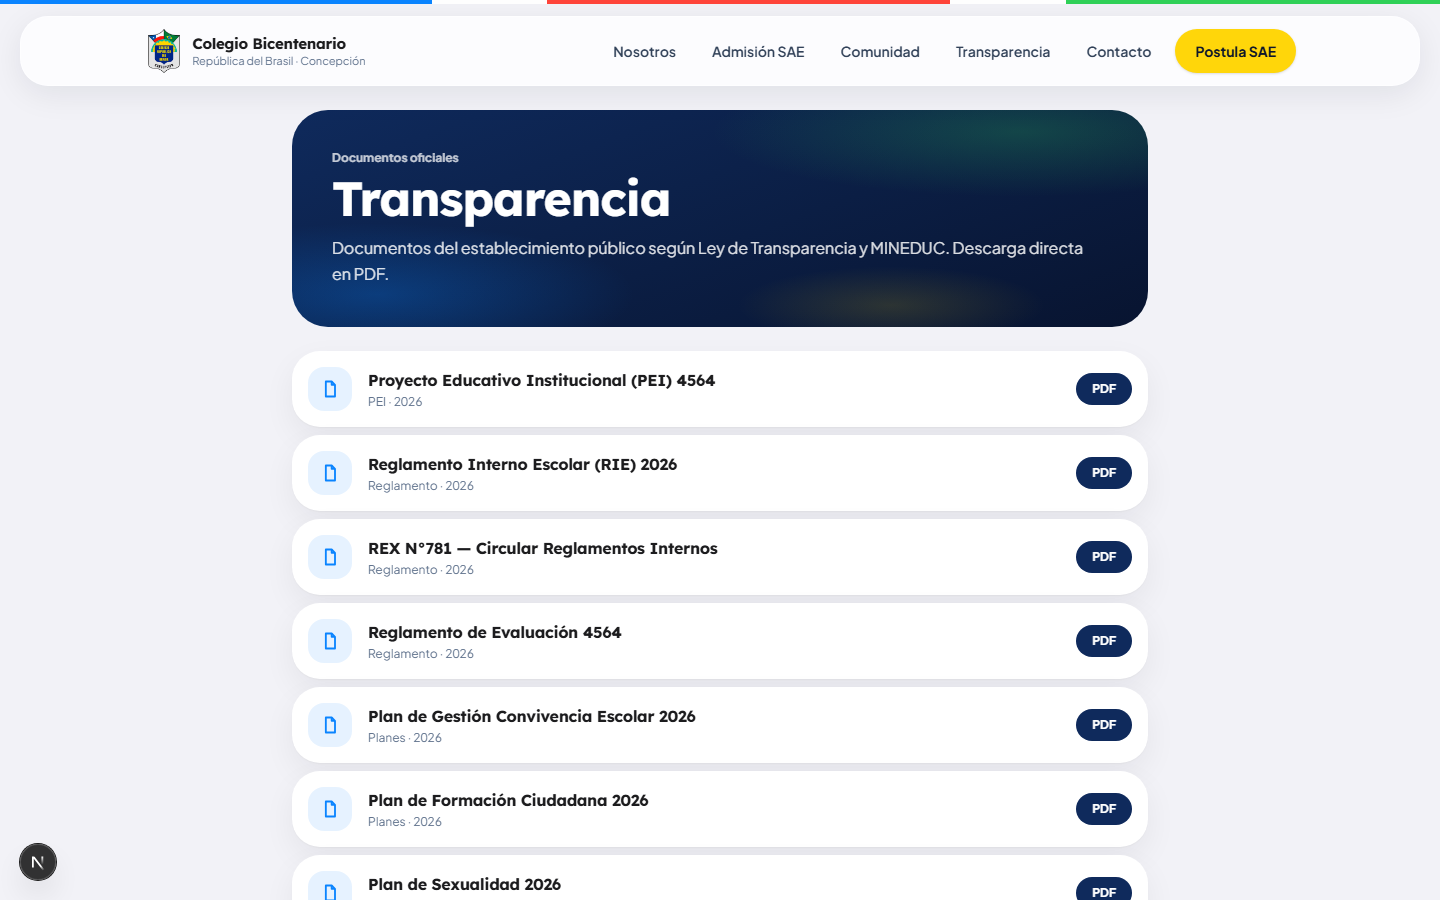
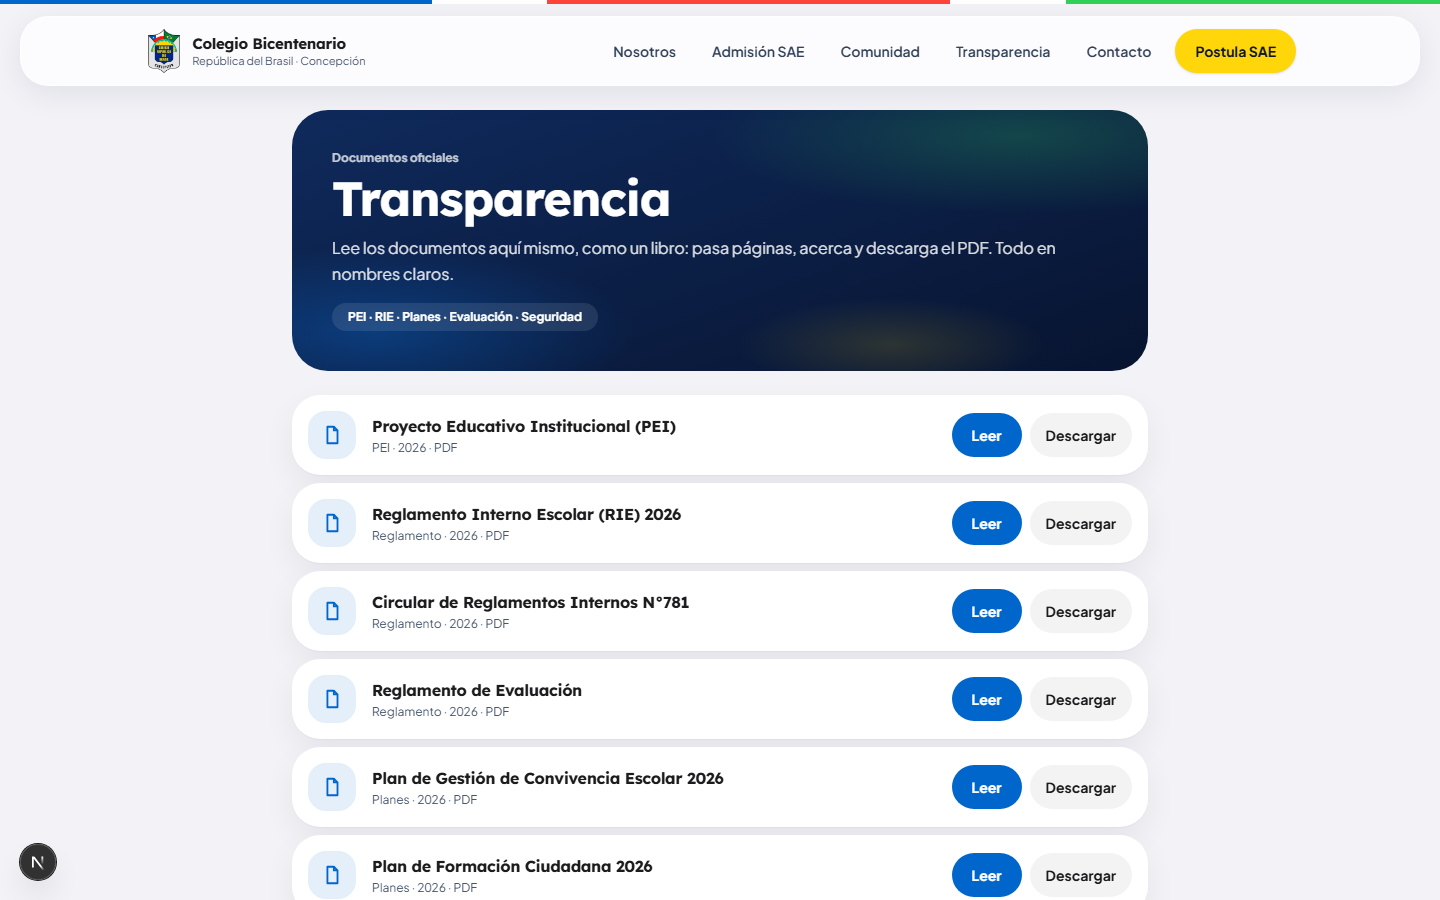
a11y: contraste AA - azul 0066cc, verde con texto oscuro, cards con borde visible, muted slate-600

Changed region(s): [[0.1875, 0.3111, 0.8125, 1.0], [0.2188, 0.2489, 0.75, 0.3111], [0.0, 0.0, 0.2812, 0.0311]]

diff --git a/src/app/page.tsx b/src/app/page.tsx
@@ -11,8 +11,8 @@ const NIVELES = [
 ];
 
 const PILARES = [
-  { tag: "1843", title: "183 años de historia", text: "Escuela N°2 de Concepción. Un colegio bicentenario que sigue formando generaciones.", tone: "bg-[#0a84ff]" },
-  { tag: "Público", title: "Laico y gratuito", text: "Educación pública de calidad, sin pago, abierta a todas las familias.", tone: "bg-[#30d158]" },
+  { tag: "1843", title: "183 años de historia", text: "Escuela N°2 de Concepción. Un colegio bicentenario que sigue formando generaciones.", tone: "bg-[#0066cc]" },
+  { tag: "Público", title: "Laico y gratuito", text: "Educación pública de calidad, sin pago, abierta a todas las familias.", tone: "bg-[#30d158] text-[#052e16]" },
   { tag: "SLEP", title: "Andalién Sur", text: "Parte del Servicio Local de Educación Pública de Concepción, Chiguayante, Florida y Hualqui.", tone: "bg-[#ffd60a]" },
   { tag: "RBD 4564", title: "Comunidad activa", text: "1.342 estudiantes, 132 docentes. Convivencia, deportes, artes y talleres en San Martín 1580.", tone: "bg-[#ff453a]" },
 ];
@@ -66,8 +66,8 @@ export default function Home() {
               <img src="/logos/slep-andalien-sur.png" alt="Servicio Local de Educación Pública Andalién Sur" width={240} height={130} className="mx-auto mt-4 h-16 w-auto" />
               <p className="mt-4 text-center text-sm font-semibold">Escuela N°2 de 1843 · Concepción, Biobío</p>
               <div className="mt-4 flex justify-center gap-2">
-                <span className="rounded-full bg-[#0a84ff] px-3 py-1 text-xs font-bold text-white">Chile</span>
-                <span className="rounded-full bg-[#30d158] px-3 py-1 text-xs font-bold text-white">Brasil</span>
+                <span className="rounded-full bg-[#0066cc] px-3 py-1 text-xs font-bold text-white">Chile</span>
+                <span className="rounded-full bg-[#30d158] px-3 py-1 text-xs font-bold text-[#052e16]">Brasil</span>
                 <span className="rounded-full bg-slate-900/10 px-3 py-1 text-xs font-bold dark:bg-white/15">Bicentenario</span>
               </div>
             </div>
@@ -87,7 +87,7 @@ export default function Home() {
         <div className="stagger mt-5 grid gap-3 sm:grid-cols-2 lg:grid-cols-4">
           {PILARES.map((p) => (
             <article key={p.title} className="animate-enter-up ios-card min-w-0 p-6">
-              <span className={`inline-flex rounded-full px-3 py-1 text-xs font-bold text-white ${p.tone} ${p.tag === "SLEP" ? "text-slate-900" : ""}`}>{p.tag}</span>
+              <span className={`inline-flex rounded-full px-3 py-1 text-xs font-bold ${p.tone} ${p.tone.includes("text-[#052e16]") || p.tone.includes("text-slate-900") ? "" : "text-white"}`}>{p.tag}</span>
               <h3 className="mt-3 font-heading text-lg font-bold leading-snug">{p.title}</h3>
               <p className="mt-1.5 text-sm leading-relaxed text-slate-600 dark:text-slate-400">{p.text}</p>
             </article>
@@ -105,15 +105,15 @@ export default function Home() {
         <div className="stagger mt-5 grid gap-3 lg:grid-cols-3">
           {NIVELES.map((n, i) => (
             <Link key={n.n} href="/admision" className="animate-enter-up group ios-card flex min-h-[120px] items-center gap-4 p-5">
-              <span className="flex h-12 w-12 shrink-0 items-center justify-center rounded-2xl bg-[#0a84ff] font-heading text-lg font-bold text-white" aria-hidden="true">
+              <span className="flex h-12 w-12 shrink-0 items-center justify-center rounded-2xl bg-[#0066cc] font-heading text-lg font-bold text-white" aria-hidden="true">
                 {n.n === "Parvularia" ? "PK" : n.n === "Básica" ? "B" : "M"}
               </span>
               <span className="min-w-0 flex-1">
-                <span className="block text-xs font-bold text-slate-500">{n.edad}</span>
+                <span className="block text-xs font-bold text-slate-600">{n.edad}</span>
                 <span className="mt-0.5 block font-heading text-lg font-bold leading-snug">{n.t}</span>
                 <span className="mt-1 block text-sm leading-relaxed text-slate-600 dark:text-slate-400">{n.d}</span>
               </span>
-              <span className="shrink-0 font-heading text-lg text-slate-300 transition-colors duration-150 group-hover:text-[#0a84ff]" aria-hidden="true">0{i + 1}</span>
+              <span className="shrink-0 font-heading text-lg text-slate-300 transition-colors duration-150 group-hover:text-[#0066cc]" aria-hidden="true">0{i + 1}</span>
             </Link>
           ))}
         </div>
@@ -154,7 +154,7 @@ export default function Home() {
       <section className="mx-auto max-w-6xl px-4 pt-12 sm:px-5" aria-labelledby="plataformas-titulo">
         <h2 id="plataformas-titulo" className="font-heading text-3xl font-bold text-pretty sm:text-4xl">Acceso rápido</h2>
         <div className="stagger mt-5 grid gap-3 sm:grid-cols-2">
-          <a href={site.workspaceUrl} target="_blank" rel="noreferrer" className="animate-enter-up group rounded-[28px] bg-gradient-to-br from-[#0a84ff] to-[#0066cc] p-6 text-white">
+          <a href={site.workspaceUrl} target="_blank" rel="noreferrer" className="animate-enter-up group rounded-[28px] bg-gradient-to-br from-[#0066cc] to-[#0066cc] p-6 text-white">
             <p className="font-heading text-xl font-bold">Google Workspace</p>
             <p className="mt-1 text-sm text-white/85">Gmail, Classroom y Drive @cbrb.cl vía MINEDUC.</p>
             <p className="mt-4 flex min-h-[44px] items-center text-sm font-bold">Acceder</p>

diff --git a/src/lib/content.ts b/src/lib/content.ts
@@ -2,10 +2,13 @@
 // Fase 2: migrar a Sanity free (mismo shape). Fase 1: este archivo = CMS.
 // Para publicar una noticia: copia un objeto, cambia título/fecha/texto, commit.
 // Fuentes reales verificadas nov 2026: Resumen.cl, Diario Concepción, Andalién Sur,
-// DEP/MINEDUC, SAE (cdnsae.mineduc.cl, RBD 4564), Educación en Datos.
+// DEP/MINEDUC, SAE (cdnsae.mineduc.cl, RBD 4564), Educación en Datos, Constructora Nahen.
 // Fotos oficiales en public/fotos/ provienen de la vitrina SAE del colegio (MINEDUC).
-// Google Photos (álbumes privados) no es indexable ni scrapeable: si el colegio
-// comparte un link público, se agrega como enlace externo, no como hotlink de imágenes.
+// Google Imágenes: lo que aparece son (a) SAE, (b) prensa con crédito, (c) redes
+// oficiales. Aparecer en Google Imágenes NO da permiso de reutilizar: toda foto
+// de prensa/social se publica con crédito visible + enlace a la fuente original.
+// Cobertura de protestas/denuncias (Resumen 2019-2024) se excluye a propósito
+// de la web institucional decorativa.
 
 export type NewsItem = {
   slug: string;
@@ -130,6 +133,20 @@ export const news: NewsItem[] = [
     source: "Diario Concepción · TVU",
     sourceUrl: "https://www.diarioconcepcion.cl/ciudad/2025/07/11/3-mil-600-millones-colegio-brasil-tendra-importante-obra-de-conservacion-en-infraestructura-y-equipamiento.html",
   },
+  {
+    slug: "educacion-publica-excelencia-historia",
+    title: "Educación pública de excelencia: la historia desde la Escuela N°2 de 1843",
+    date: "2022-10-30",
+    category: "Académica",
+    excerpt:
+      "De Escuela de Primeras Letras a Colegio Bicentenario con enseñanza parvularia, básica y media. 1.470 estudiantes en 2022 y guardadores del Pabellón de Brasil.",
+    body: "La historia académica comienza en 1843 como Escuela N°2, en madera, con preceptores y clases de lectura, aritmética y catecismo. Pasó por Angol con Chacabuco, Cochrane con Serrano y Rengo 65, y desde 2013 ocupa Galvarino esquina San Martín y Roosevelt. En 2022 contaba 48 cursos y 1.470 estudiantes de prekínder a IV medio humanista-científico, con Programa de Integración Escolar, estudiantes sordos y decenas de estudiantes migrantes. Desde sus orígenes es guardador del Pabellón Patrio de la República del Brasil.",
+    image: "https://assets.diarioconcepcion.cl/2022/10/pag-14-4-Colegio-Bicentenario-Republica-de-Brasil-foto-isidoro.jpg",
+    imageAlt: "Sala de clases del Colegio República del Brasil con estudiantes de básica con polera verde y su profesora",
+    imageCredit: "Foto: Isidoro Valenzuela · Diario Concepción (oct 2022)",
+    source: "Diario Concepción · Silvanio Mariani",
+    sourceUrl: "https://www.diarioconcepcion.cl/ciudad/2022/10/30/colegio-bicentenario-republica-de-brasil-educacion-publica-de-excelencia-en-biobio.html",
+  },
 ];
 
 export type GalleryItem = {
@@ -141,11 +158,13 @@ export type GalleryItem = {
 };
 
 /**
- * Galería — fotos oficiales del colegio desde la vitrina SAE (MINEDUC, RBD 4564).
- * Archivos locales en public/fotos/ (copias de cdnsae.mineduc.cl/imagenes/4564/).
- * Lo que aparece en Google Imágenes / Google Maps para este RBD son estas fotos
- * SAE + prensa + redes oficiales. Google Photos privado no se puede embeber por
- * hotlink: si tienes un álbum compartido público, enlázalo en Comunidad.
+ * Galería — fotos oficiales del colegio desde la vitrina SAE (MINEDUC, RBD 4564)
+ * + letrero oficial de la obra SLEP/MINEDUC en Google Imágenes.
+ * Archivos SAE locales en public/fotos/ (copias de cdnsae.mineduc.cl/imagenes/4564/).
+ * Lo que aparece en Google Imágenes para este RBD son estas fotos SAE + prensa
+ * (Resumen.cl, Diario Concepción, DEP, Nahen) + redes oficiales. Aparecer en
+ * Google Imágenes no autoriza reutilizar sin crédito: toda foto de prensa se
+ * cita con crédito visible + enlace a la fuente.
  */
 export const gallery: GalleryItem[] = [
   {
@@ -189,6 +208,13 @@ export const gallery: GalleryItem[] = [
     title: "Estudiantes de ayer",
     caption: "Patrimonio fotográfico del colegio bicentenario. Escuela N°2 de 1843.",
     credit: "Foto histórica: SAE · MINEDUC",
+  },
+  {
+    src: "https://nahen.cl/imagenes/Letreros/ConservacionColegioBrasil.jpeg",
+    alt: "Letrero oficial de obra Aquí se construye Educación Pública del SLEP Andalién Sur junto al patio del colegio",
+    title: "Obra en curso · Aquí se construye",
+    caption: "Conservación del colegio: inicio 2 oct 2025, plazo 600 días, contratista Constructora Nahen.",
+    credit: "Foto: Constructora Nahen / SLEP Andalién Sur · MINEDUC",
   },
 ];
 

diff --git a/src/components/NewsCard.tsx b/src/components/NewsCard.tsx
@@ -16,22 +16,22 @@ export const NewsCard = memo(function NewsCard({ item, featured = false }: { ite
             className="aspect-[16/7] w-full object-cover transition-transform duration-300 group-hover:scale-[1.03]"
           />
           {item.imageCredit ? (
-            <figcaption className="mt-1.5 text-[11px] text-slate-500">{item.imageCredit}</figcaption>
+            <figcaption className="mt-1.5 text-[11px] text-slate-600">{item.imageCredit}</figcaption>
           ) : null}
         </figure>
       ) : null}
       <p className="mt-3 flex flex-wrap items-center gap-2 text-xs font-bold">
-        <span className="rounded-full bg-[#0a84ff]/10 px-2.5 py-1 text-[#0a84ff]">{item.category}</span>
-        <span className="tabular-nums text-slate-500">{item.date}</span>
+        <span className="rounded-full bg-[#0066cc]/10 px-2.5 py-1 text-[#0066cc]">{item.category}</span>
+        <span className="tabular-nums text-slate-600">{item.date}</span>
       </p>
-      <h3 className={`mt-2 font-heading font-bold leading-snug text-pretty transition-colors duration-150 group-hover:text-[#0a84ff] ${featured ? "text-2xl" : "text-lg"}`}>
+      <h3 className={`mt-2 font-heading font-bold leading-snug text-pretty transition-colors duration-150 group-hover:text-[#0066cc] ${featured ? "text-2xl" : "text-lg"}`}>
         {item.title}
       </h3>
       <p className={`mt-2 leading-relaxed text-slate-600 dark:text-slate-400 ${featured ? "text-base" : "line-clamp-3 text-sm"}`}>{item.excerpt}</p>
       {item.source ? (
-        <p className="mt-3 text-xs font-semibold text-slate-500">
+        <p className="mt-3 text-xs font-semibold text-slate-600">
           {item.sourceUrl ? (
-            <a href={item.sourceUrl} target="_blank" rel="noreferrer" className="underline underline-offset-4 hover:text-[#0a84ff]">
+            <a href={item.sourceUrl} target="_blank" rel="noreferrer" className="underline underline-offset-4 hover:text-[#0066cc]">
               {item.source}
             </a>
           ) : (

diff --git a/src/components/TransparenciaClient.tsx b/src/components/TransparenciaClient.tsx
@@ -30,19 +30,19 @@ export const TransparenciaClient = memo(function TransparenciaClient({ docs }: {
                 className="pressable flex min-w-0 flex-1 items-center gap-4 text-left"
                 aria-haspopup="dialog"
               >
-                <span className="flex h-12 w-12 shrink-0 items-center justify-center rounded-[18px] bg-[#0a84ff]/10 text-[#0a84ff]" aria-hidden="true">
+                <span className="flex h-12 w-12 shrink-0 items-center justify-center rounded-[18px] bg-[#0066cc]/10 text-[#0066cc]" aria-hidden="true">
                   <svg width="22" height="22" viewBox="0 0 24 24" fill="none" stroke="currentColor" strokeWidth="2"><path d="M7 3h7l4 4v14H7V3Z" strokeLinejoin="round"/><path d="M14 3v4h4" strokeLinejoin="round"/></svg>
                 </span>
                 <span className="min-w-0 flex-1">
                   <span className="block truncate font-heading font-bold">{d.title}</span>
-                  <span className="mt-0.5 block text-xs text-slate-500">{d.category} · <span className="tabular-nums">{d.year}</span> · PDF</span>
+                  <span className="mt-0.5 block text-xs text-slate-600">{d.category} · <span className="tabular-nums">{d.year}</span> · PDF</span>
                 </span>
               </button>
               <div className="flex shrink-0 items-center gap-2">
                 <button
                   type="button"
                   onClick={() => setSelected(d)}
-                  className="pressable flex min-h-[44px] items-center rounded-full bg-[#0a84ff] px-5 text-sm font-bold text-white transition-colors duration-150 hover:bg-[#0066cc]"
+                  className="pressable flex min-h-[44px] items-center rounded-full bg-[#0066cc] px-5 text-sm font-bold text-white transition-colors duration-150 hover:bg-[#0066cc]"
                 >
                   Leer
                 </button>

diff --git a/src/app/admision/page.tsx b/src/app/admision/page.tsx
@@ -35,7 +35,7 @@ export default function AdmisionPage() {
         <ol className="stagger mt-5 grid gap-3 sm:grid-cols-2">
           {steps.map((s) => (
             <li key={s.n} className="animate-enter-up ios-card flex gap-4 p-5">
-              <span className="flex h-11 w-11 shrink-0 items-center justify-center rounded-2xl bg-[#0a84ff] font-heading text-lg font-bold text-white" aria-hidden="true">{s.n}</span>
+              <span className="flex h-11 w-11 shrink-0 items-center justify-center rounded-2xl bg-[#0066cc] font-heading text-lg font-bold text-white" aria-hidden="true">{s.n}</span>
               <span className="min-w-0">
                 <span className="block font-heading text-lg font-bold">{s.t}</span>
                 <span className="mt-1 block text-sm leading-relaxed text-slate-600 dark:text-slate-400">{s.d}</span>
@@ -52,7 +52,7 @@ export default function AdmisionPage() {
             <details key={f.q} className="ios-card group p-5">
               <summary className="flex min-h-[44px] cursor-pointer items-center justify-between gap-4 font-heading font-bold marker:hidden">
                 {f.q}
-                <span className="text-xl text-[#0a84ff] transition-transform duration-200 group-open:rotate-45" aria-hidden="true">+</span>
+                <span className="text-xl text-[#0066cc] transition-transform duration-200 group-open:rotate-45" aria-hidden="true">+</span>
               </summary>
               <p className="mt-2 text-sm leading-relaxed text-slate-600 dark:text-slate-400">{f.a}</p>
             </details>

diff --git a/src/components/SiteHeader.tsx b/src/components/SiteHeader.tsx
@@ -9,7 +9,7 @@ export const SiteHeader = memo(function SiteHeader() {
   return (
     <header className="sticky top-0 z-50">
       <div className="tricolor-rule" aria-hidden="true">
-        <span className="bg-[#0a84ff]" /><span className="bg-white" /><span className="bg-[#ff453a]" /><span className="bg-white" /><span className="bg-[#30d158]" />
+        <span className="bg-[#0066cc]" /><span className="bg-white" /><span className="bg-[#ff453a]" /><span className="bg-white" /><span className="bg-[#30d158] text-[#052e16]" />
       </div>
       <div className="glass-panel mx-3 mt-3 rounded-[28px] px-3 py-2 sm:mx-5 sm:px-4">
         <div className="mx-auto flex max-w-6xl items-center gap-2">
@@ -17,7 +17,7 @@ export const SiteHeader = memo(function SiteHeader() {
             <img src="/logos/cbrb.png" alt="Escudo Colegio República del Brasil" width={42} height={57} className="h-11 w-auto shrink-0" />
             <span className="min-w-0 leading-tight">
               <span className="block truncate font-heading text-[15px] font-bold">Colegio Bicentenario</span>
-              <span className="block truncate text-[11px] text-slate-500 dark:text-slate-400">República del Brasil · Concepción</span>
+              <span className="block truncate text-[11px] text-slate-600 dark:text-slate-400">República del Brasil · Concepción</span>
             </span>
           </Link>
 

diff --git a/src/components/SchoolGallery.tsx b/src/components/SchoolGallery.tsx
@@ -51,14 +51,14 @@ export const SchoolGallery = memo(function SchoolGallery({ headingId = "galeria-
               <figcaption className="glass-panel absolute inset-x-3 bottom-3 rounded-[20px] px-4 py-3">
                 <p className="font-heading text-sm font-bold leading-snug">{g.title}</p>
                 <p className="mt-0.5 text-xs leading-snug text-slate-600 dark:text-slate-300">{g.caption}</p>
-                <p className="mt-1 text-[10px] leading-snug text-slate-500 dark:text-slate-400">{g.credit}</p>
+                <p className="mt-1 text-[10px] leading-snug text-slate-600 dark:text-slate-400">{g.credit}</p>
               </figcaption>
             </figure>
           </li>
         ))}
       </ul>
 
-      <p className="mt-4 text-xs leading-relaxed text-slate-500 dark:text-slate-400">
+      <p className="mt-4 text-xs leading-relaxed text-slate-600 dark:text-slate-400">
         Fotos: vitrina SAE · MINEDUC (RBD 4564, originales en cdnsae.mineduc.cl) y prensa (Resumen.cl, Diario Concepción, DEP).
         Google Photos privado no se puede embeber: si el colegio comparte un álbum público, enlázalo aquí.
         Para sumar fotos nuevas: súbelas a <code className="rounded bg-slate-900/5 px-1.5 py-0.5 dark:bg-white/10">public/fotos/</code> y actualiza <code className="rounded bg-slate-900/5 px-1.5 py-0.5 dark:bg-white/10">src/lib/content.ts</code>.

diff --git a/src/app/contacto/page.tsx b/src/app/contacto/page.tsx
@@ -52,7 +52,7 @@ const ContactForm = memo(function ContactForm() {
       >
         {sending ? "Enviando…" : "Enviar mensaje"}
       </button>
-      <p className="text-xs text-slate-500">Respuesta en días hábiles. Para matrícula usa SAE, no este formulario.</p>
+      <p className="text-xs text-slate-600">Respuesta en días hábiles. Para matrícula usa SAE, no este formulario.</p>
     </form>
   );
 });
@@ -73,7 +73,7 @@ export default function ContactPage() {
           <div className="ios-card overflow-hidden">
             <div className="flex items-center justify-between gap-4 p-5">
               <h2 className="font-heading text-lg font-bold">Ubicación</h2>
-              <a href={site.mapUrl} target="_blank" rel="noreferrer" className="pressable flex min-h-[44px] items-center rounded-full bg-[#0a84ff] px-4 text-sm font-bold text-white">
+              <a href={site.mapUrl} target="_blank" rel="noreferrer" className="pressable flex min-h-[44px] items-center rounded-full bg-[#0066cc] px-4 text-sm font-bold text-white">
                 Cómo llegar
               </a>
             </div>

diff --git a/src/app/globals.css b/src/app/globals.css
@@ -5,7 +5,7 @@
   --background: #f2f2f7;
   --foreground: #1c1c1e;
   --cbrb-navy: #0f2a5c;
-  --cbrb-chile: #0a84ff;
+  --cbrb-chile: #0066cc;
   --br-green: #30d158;
   --br-yellow: #ffd60a;
   --chile-red: #ff453a;
@@ -58,8 +58,9 @@ section[id], main [id] { scroll-margin-top: 96px; }
 /* iOS grouped card */
 .ios-card {
   background: #ffffff;
+  border: 1px solid rgba(15, 23, 42, 0.16);
   border-radius: 28px;
-  box-shadow: 0 1px 2px rgba(0, 0, 0, 0.04), 0 12px 32px rgba(15, 23, 42, 0.06);
+  box-shadow: 0 2px 6px rgba(15, 23, 42, 0.07), 0 12px 32px rgba(15, 23, 42, 0.09);
 }
 .dark .ios-card {
   background: #1c1c1e;
@@ -120,7 +121,7 @@ section[id], main [id] { scroll-margin-top: 96px; }
 .pressable:active { transform: scale(0.96); }
 
 :focus-visible {
-  outline: 3px solid #0a84ff;
+  outline: 3px solid #0066cc;
   outline-offset: 3px;
   border-radius: 10px;
 }

diff --git a/src/app/comunidad/page.tsx b/src/app/comunidad/page.tsx
@@ -35,7 +35,7 @@ export default function ComunidadPage() {
         <h2 id="calendario-titulo" className="font-heading text-xl font-bold">Calendario escolar</h2>
         <p className="mt-1.5 text-sm leading-relaxed text-slate-600 dark:text-slate-400">
           Actos, reuniones y fechas oficiales. En época SAE y matrícula, revisa también{" "}
-          <a href={site.saeUrl} target="_blank" rel="noreferrer" className="font-bold text-[#0a84ff] underline underline-offset-4">admisión SAE</a>.
+          <a href={site.saeUrl} target="_blank" rel="noreferrer" className="font-bold text-[#0066cc] underline underline-offset-4">admisión SAE</a>.
         </p>
       </section>
     </div>

diff --git a/src/app/transparencia/page.tsx b/src/app/transparencia/page.tsx
@@ -18,7 +18,7 @@ export default function TransparenciaPage() {
 
       <TransparenciaClientWrapper docs={documents} />
 
-      <p className="mt-5 text-xs text-slate-500">PEI, reglamento y planes RBD 4564 · SLEP Andalién Sur. Si un archivo no abre, escribe a <a href="mailto:contacto@cbrb.cl" className="underline">contacto@cbrb.cl</a>.</p>
+      <p className="mt-5 text-xs text-slate-600">PEI, reglamento y planes RBD 4564 · SLEP Andalién Sur. Si un archivo no abre, escribe a <a href="mailto:contacto@cbrb.cl" className="underline">contacto@cbrb.cl</a>.</p>
     </div>
   );
 }

diff --git a/src/app/nosotros/page.tsx b/src/app/nosotros/page.tsx
@@ -106,7 +106,7 @@ export default function NosotrosPage() {
         <ul className="mt-4">
           {team.map((m) => (
             <li key={m.role} className="flex min-h-[52px] items-center justify-between gap-4 border-b border-slate-100 py-3 last:border-0 dark:border-slate-800">
-              <span className="text-sm text-slate-500">{m.role}</span>
+              <span className="text-sm text-slate-600">{m.role}</span>
               <span className="text-right text-sm font-semibold">{m.name}</span>
             </li>
           ))}
